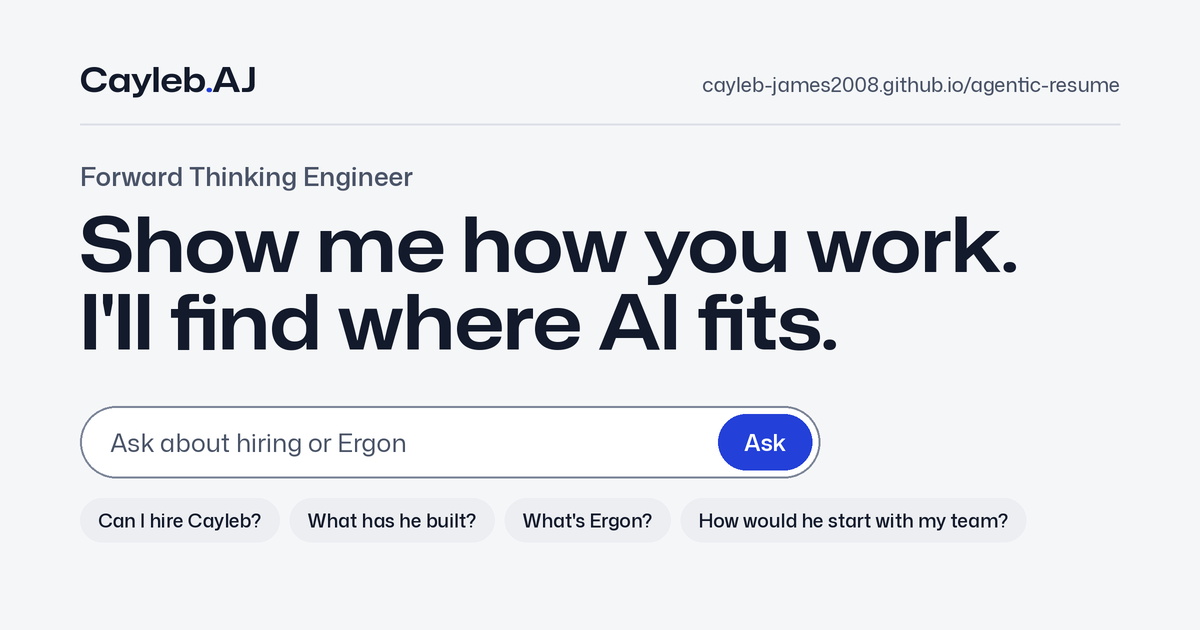
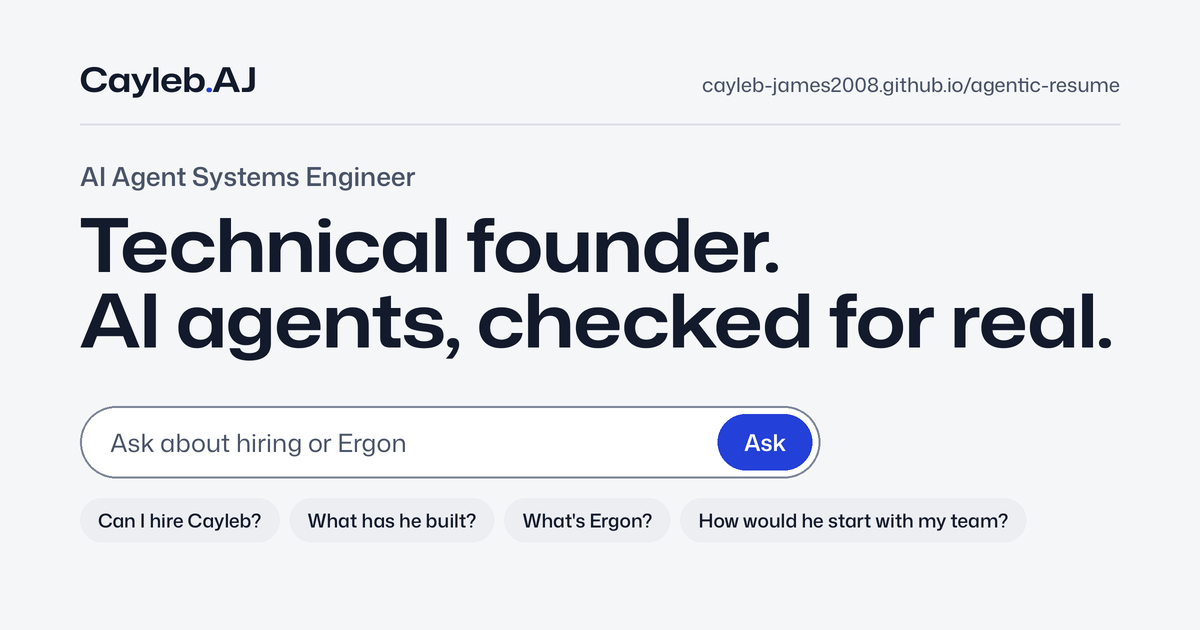
Share card: regenerate with current title and headline
make_share_card.py HEADLINE had drifted to the retired hero headline; set it to the current hero headline and regenerated assets/og/card.png (title already updated to AI Agent Systems Engineer in the previous commit).

diff --git a/scripts/home/make_share_card.py b/scripts/home/make_share_card.py
@@ -31,7 +31,7 @@ MONA = ROOT / "assets" / "fonts" / "mona-sans-latin-wdth-normal.woff2"
 
 WORDMARK = "Cayleb.AJ"
 TITLE = "AI Agent Systems Engineer"
-HEADLINE = "Show me how you work. I'll find where AI fits."
+HEADLINE = "Technical founder. AI agents, checked for real."
 URL = "cayleb-james2008.github.io/agentic-resume"
 X = 80
 
